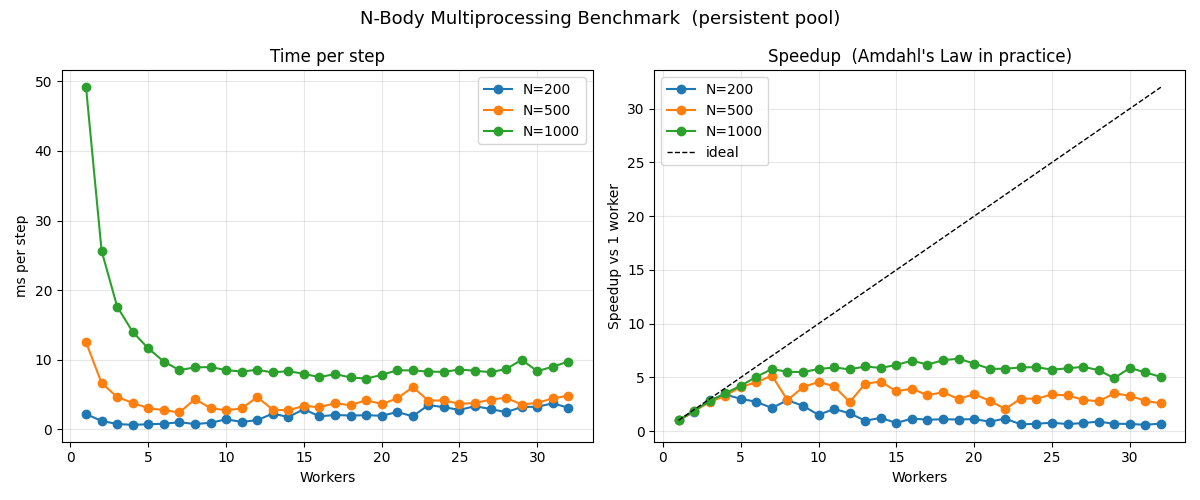
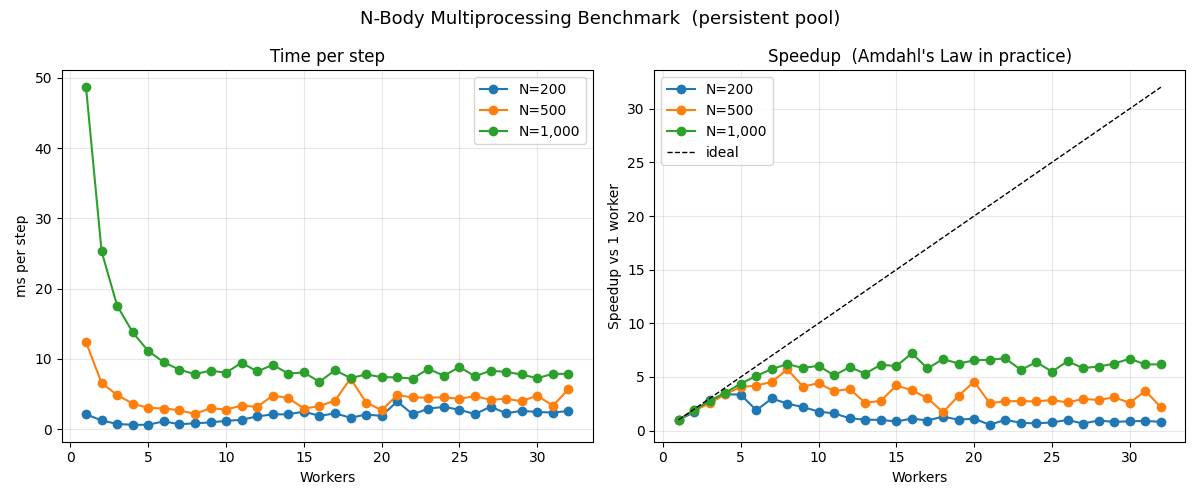
Update benchmark to support larger N. Add checks if there is enough memory to support a given N. For now run with N=200,500,1000

diff --git a/benchmark.py b/benchmark.py
@@ -19,6 +19,25 @@ import matplotlib.pyplot as plt
 from main import nbody_step, nbody_parallel_step_persistent
 
 
+def memory_required_gb(N, n_workers):
+    """
+    Estimate peak RAM for one simulation step.
+
+    The dominant allocation is the diff array inside compute_forces_chunk:
+        shape (chunk_size, N, 3)  float64
+    where chunk_size = N // n_workers.
+
+    Each worker holds one such array simultaneously, so total peak memory
+    across all workers is n_workers × chunk_size × N × 3 × 8 bytes
+    = N² × 3 × 8 bytes  (independent of n_workers, because total work is N²).
+
+    However what matters for feasibility is whether any single worker's
+    allocation fits in RAM, so we return the per-worker figure.
+    """
+    chunk_size = N // n_workers
+    return chunk_size * N * 3 * 8 / 1e9   # GB per worker
+
+
 def make_initial_conditions(N, seed=42):
     np.random.seed(seed)
     pos  = np.random.randn(N, 3) * 10.0
@@ -58,18 +77,32 @@ def time_steps(pos, vel, mass, n_workers, steps, G=1.0, dt=0.01, softening=0.1):
     return elapsed / steps
 
 
-def sweep_workers(N, steps=5, max_workers=None):
+def sweep_workers(N, steps=5, max_workers=None, memory_limit_gb=4.0):
     """
     Benchmark n_workers in [1 .. max_workers] for a fixed N.
     Returns dict {n_workers: seconds_per_step}.
+
+    Skips the entire sweep and returns {} if the per-worker memory
+    requirement exceeds memory_limit_gb (protects against OOM crashes).
     """
     if max_workers is None:
         max_workers = os.cpu_count()
 
+    # Check feasibility at max workers (best-case memory usage)
+    mem_gb = memory_required_gb(N, max_workers)
+    if mem_gb > memory_limit_gb:
+        print(f"\nN={N}  SKIPPED")
+        print(f"  Per-worker diff array requires {mem_gb:.1f} GB "
+              f"(limit {memory_limit_gb} GB).")
+        print(f"  N={N} needs an O(N log N) algorithm (e.g. Barnes-Hut) "
+              f"to be tractable.")
+        return {}
+
     pos, vel, mass = make_initial_conditions(N)
     results = {}
 
-    print(f"\nN={N}, {steps} timed steps per worker count")
+    print(f"\nN={N}, {steps} timed steps per worker count  "
+          f"(peak RAM per worker: {memory_required_gb(N, 1)*1000:.0f} MB @ 1 worker)")
     print(f"{'workers':>8}  {'ms/step':>10}  {'speedup':>8}")
     print("-" * 34)
 
@@ -85,10 +118,15 @@ def sweep_workers(N, steps=5, max_workers=None):
     return results
 
 
-def run_benchmark(N_values=(200, 500, 1000), steps=5, max_workers=None):
+# Steps to use per N value — fewer steps for large N since each step is much slower
+_STEPS_FOR_N = {200: 5, 500: 5, 1000: 5, 10_000: 2, 100_000: 2}
+
+
+def run_benchmark(N_values=(200, 500, 1000, 10_000, 100_000),
+                  max_workers=None, memory_limit_gb=4.0):
     """
     Run sweep_workers for each N value.
-    Returns dict {N: {n_workers: seconds_per_step}}.
+    Returns dict {N: {n_workers: seconds_per_step}}  (empty dict for skipped N).
     """
     if max_workers is None:
         max_workers = os.cpu_count()
@@ -98,7 +136,10 @@ def run_benchmark(N_values=(200, 500, 1000), steps=5, max_workers=None):
 
     all_results = {}
     for N in N_values:
-        all_results[N] = sweep_workers(N, steps=steps, max_workers=max_workers)
+        steps = _STEPS_FOR_N.get(N, 3)
+        all_results[N] = sweep_workers(N, steps=steps,
+                                       max_workers=max_workers,
+                                       memory_limit_gb=memory_limit_gb)
 
     return all_results
 
@@ -108,20 +149,28 @@ def plot_results(results_by_N, save_path='benchmark_results.png'):
     Two side-by-side charts:
       Left  — ms per step vs worker count
       Right — speedup vs worker count with ideal (linear) reference
+
+    Skipped N values (empty dicts) are omitted from the plot.
     """
+    # Drop any N that was skipped
+    plotable = {N: r for N, r in results_by_N.items() if r}
+    if not plotable:
+        print("No results to plot (all N values were skipped).")
+        return
+
     fig, (ax1, ax2) = plt.subplots(1, 2, figsize=(12, 5))
     fig.suptitle("N-Body Multiprocessing Benchmark  (persistent pool)", fontsize=13)
 
-    all_workers = sorted(next(iter(results_by_N.values())).keys())
+    all_workers = sorted(next(iter(plotable.values())).keys())
 
-    for N, results in results_by_N.items():
+    for N, results in plotable.items():
         workers  = sorted(results.keys())
         times_ms = [results[w] * 1000 for w in workers]
         baseline = results[1]
         speedups = [baseline / results[w] for w in workers]
 
-        ax1.plot(workers, times_ms, marker='o', label=f'N={N}')
-        ax2.plot(workers, speedups, marker='o', label=f'N={N}')
+        ax1.plot(workers, times_ms, marker='o', label=f'N={N:,}')
+        ax2.plot(workers, speedups, marker='o', label=f'N={N:,}')
 
     # Ideal linear speedup
     ax2.plot(all_workers, all_workers, 'k--', linewidth=1, label='ideal')
@@ -145,5 +194,5 @@ def plot_results(results_by_N, save_path='benchmark_results.png'):
 
 
 if __name__ == '__main__':
-    results = run_benchmark(N_values=(200, 500, 1000), steps=5)
+    results = run_benchmark(N_values=(200, 500, 1000))
     plot_results(results)
